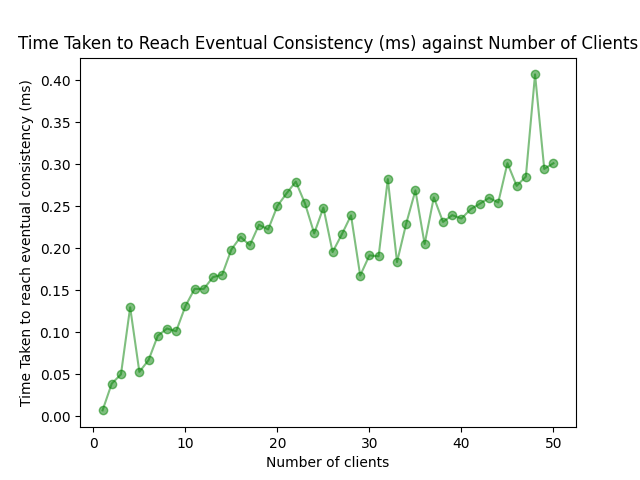
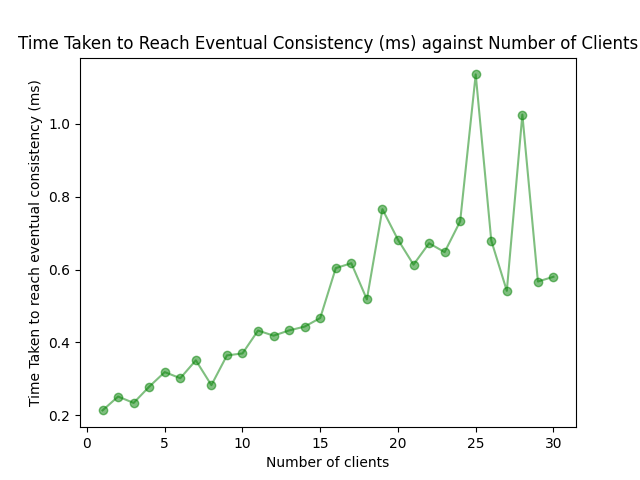
Modified sending of text to sending of delta object in client-server

diff --git a/client-server/client.py b/client-server/client.py
@@ -2,6 +2,10 @@
 import socket
 import random
 
+import sys
+sys.path.append('../')
+from delta import Delta
+
 #Create a socket instance
 socketObject = socket.socket()
 host = '127.0.0.1'
@@ -22,6 +26,7 @@ waitingForServerToComeback = True
 unsentBuffer = []
 secondSocket = socket.socket()
 
+
 # Receive the data
 while(True):
     if len(unsentBuffer) > 0: 
@@ -33,34 +38,57 @@ while(True):
             print(res)
         unsentBuffer = []
 
-    message = input("Input message to send to server: ")
+    # message = input("Input message to send to server: ")
 
-    if message.lower() == "exit":
-        break
+        operation = ''
+    retain = ''
+
+    retain = input("Input position value to retain: ")
+    operation = input("Input Operation (insert/delete): ")
+    value = input("Input value for operation (insert: text | delete: position value): ")
+
+
+    if retain == '':
+        if operation == 'insert':
+            client_delta = Delta().insert(value)
+        
+        elif operation == 'delete':
+            client_delta = Delta().delete(int(value))
     
     else:
-        try:
-            if waitingForServerToComeback == True:
-                messageBytes = str.encode(message)
-                socketObject.sendall(messageBytes)
-            else:
-                messageBytes = str.encode(message)
-                secondSocket.sendall(messageBytes)
+        if operation == 'insert':
+            client_delta = Delta().retain(int(retain)).insert(value)
+        
+        elif operation == 'delete':
+            client_delta = Delta().retain(int(retain)).delete(int(value))        
 
 
-        except ConnectionResetError as e: #server connection shut down
-            unsentBuffer.append(message) #place the unsent message in the buffer
+    print("[Client Operation]:", client_delta)
+
+    message = str(client_delta)
+
+    try:
+        if waitingForServerToComeback == True:
+            messageBytes = str.encode(message)
+            socketObject.sendall(messageBytes)
+        else:
+            messageBytes = str.encode(message)
+            secondSocket.sendall(messageBytes)
+
+
+    except ConnectionResetError as e: #server connection shut down
+        unsentBuffer.append(message) #place the unsent message in the buffer
+        
+        while(waitingForServerToComeback):
             
-            while(waitingForServerToComeback):
+            try:
+                secondSocket.connect((host,port))
+                print("Server is back")
+                waitingForServerToComeback = False
                 
-                try:
-                    secondSocket.connect((host,port))
-                    print("Server is back")
-                    waitingForServerToComeback = False
-                    
 
-                except ConnectionRefusedError:
-                    print(str(e))
+            except ConnectionRefusedError:
+                print(str(e))
 
         
     if waitingForServerToComeback == True:

diff --git a/client-server/server.py b/client-server/server.py
@@ -2,11 +2,20 @@ import socket
 import os
 from _thread import *
 
+import sys
+sys.path.append('../')
+from delta import Delta
+
+import utils
+
 ServerSideSocket = socket.socket()
 host = '127.0.0.1'
 port = 2004
 ThreadCount = 0
 clients= set()
+
+delta_object = Delta().insert('ABCD')
+
 try:
     ServerSideSocket.bind((host, port))
 except socket.error as e:
@@ -16,14 +25,30 @@ print('Socket is listening..')
 ServerSideSocket.listen(5)
 
 def multi_threaded_client(connection):
+    global delta_object
     connection.send(str.encode('Server is working:'))
     while True:
+
+        print("[Current State]:", delta_object)
+        
         data = connection.recv(2048)
-        response = 'Server message: ' + data.decode('utf-8')
         if not data:
             break
-        print(response)
+
+        client_message = data.decode('utf-8')
+        print(client_message)
+
+        client_delta = utils.string_to_delta(client_message)
+
+        print("[Client Operation]:", client_delta)
+
+
+        delta_object = delta_object.compose(client_delta)
+        print("[Eventual State in Server]:", delta_object)
+        response = str(delta_object)
+
         connection.sendall(str.encode(response))
+        print('\n')
     connection.close()
 
 while True:

diff --git a/client-server/utils.py b/client-server/utils.py
@@ -1,0 +1,39 @@
+import sys
+sys.path.append('../')
+from delta import Delta
+
+def string_to_delta(text):
+    temp_text = text[7:]
+    delta_text = temp_text[:-2]
+    delta_list = delta_text.split(',')
+
+    if len(delta_list) == 1:
+        ops = delta_list[0][2:8]
+        
+        if ops == 'insert':
+            value = delta_list[0][12:-2]
+            print(value)
+            return Delta().insert(value)
+        
+        elif ops == 'delete':
+            value = int(delta_list[0][11:-1])
+            return Delta().delete(value)
+
+    elif len(delta_list) == 2:
+        for i in range(2):
+            if i == 0:
+                ops_1 = delta_list[0][2:8]
+                value_1 = int(delta_list[0][11:12])
+
+            elif i == 1:
+                ops_2 = delta_list[1][3:9]
+
+                if ops_2 == 'insert':
+                    value_2 = delta_list[1][13:-2]
+                    return Delta().retain(value_1).insert(value_2)
+                
+                elif ops_2 == 'delete':
+                    value_2 = int(delta_list[1][12:-1])
+                    return Delta().retain(value_1).delete(value_2)
+
+    return Delta()

diff --git a/single/single.py b/single/single.py
@@ -72,8 +72,8 @@ def seq_OT():
 def concurrency_OT():
 
     initial = Delta().insert('ABCD')
-    client_operation = Delta().retain(3).insert("X")
-    server_operation = Delta().retain(1).delete(1)
+    client_operation = Delta().retain(3).insert("X") # ABCXD -> ACXD
+    server_operation = Delta().retain(1).delete(1) # ACD -> ACDX, ACXD
 
     # Client
     client_local = initial.compose(client_operation)

diff --git a/experiment/multiclient.py b/experiment/multiclient.py
@@ -11,8 +11,10 @@ idx_list = []
 
 
 
-for i in range(50):
+for i in range(30):
     start = time.time()
+    time.sleep(0.2)
+    
     for j in range(i+1):
 
         socketObject = socket.socket()
